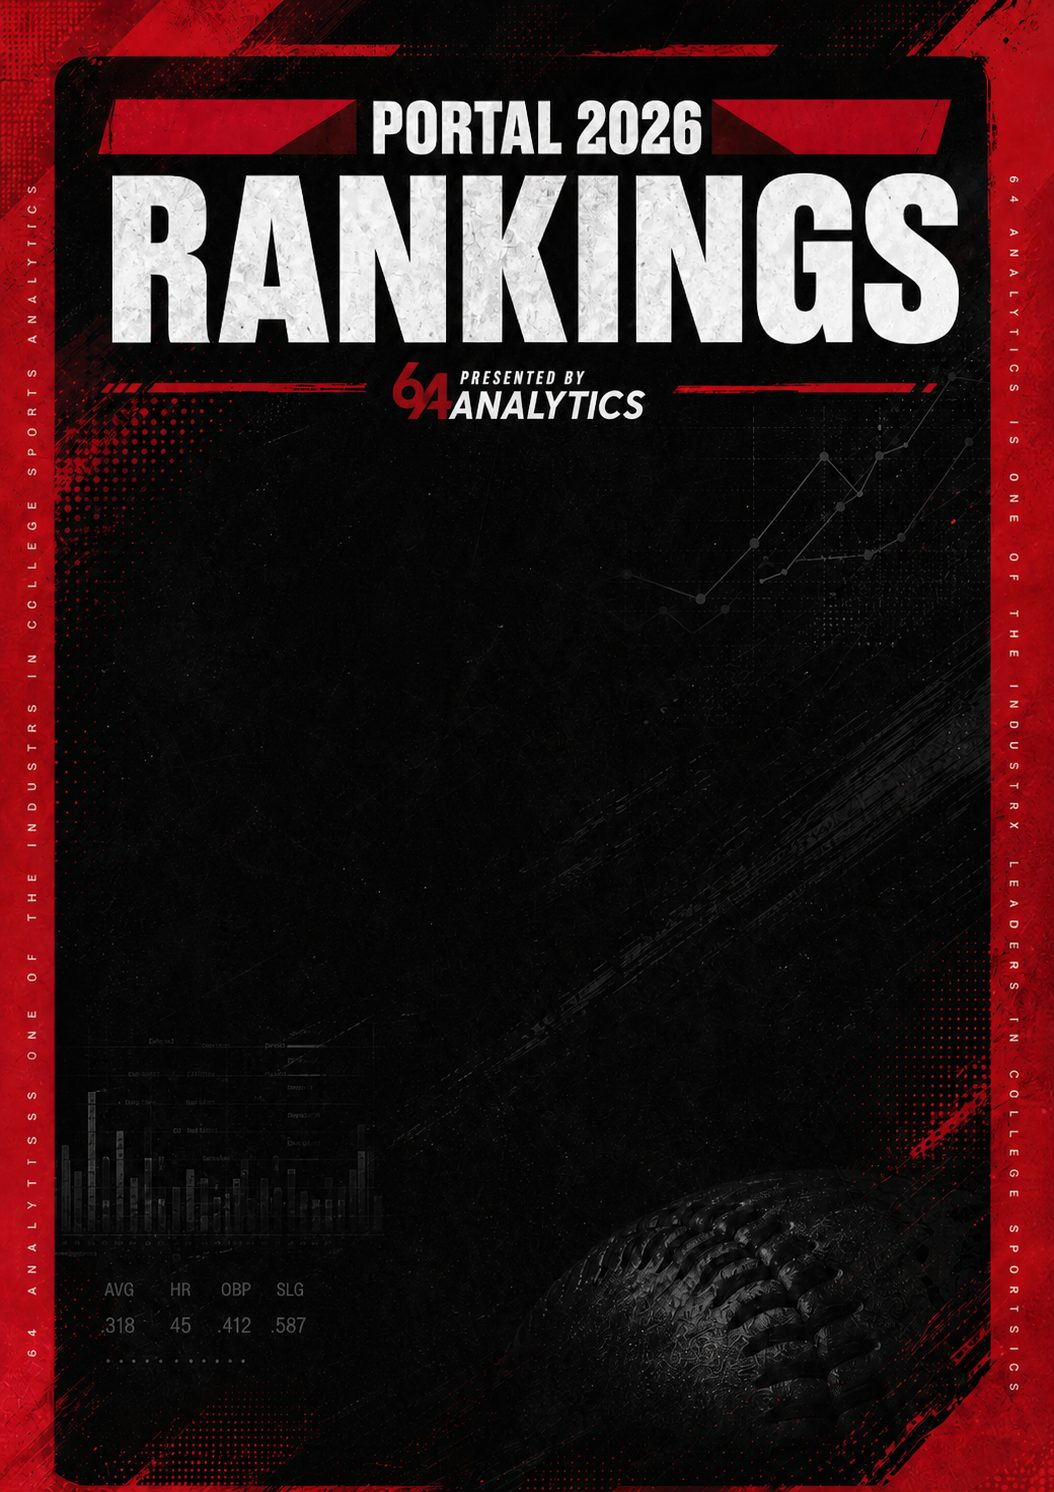
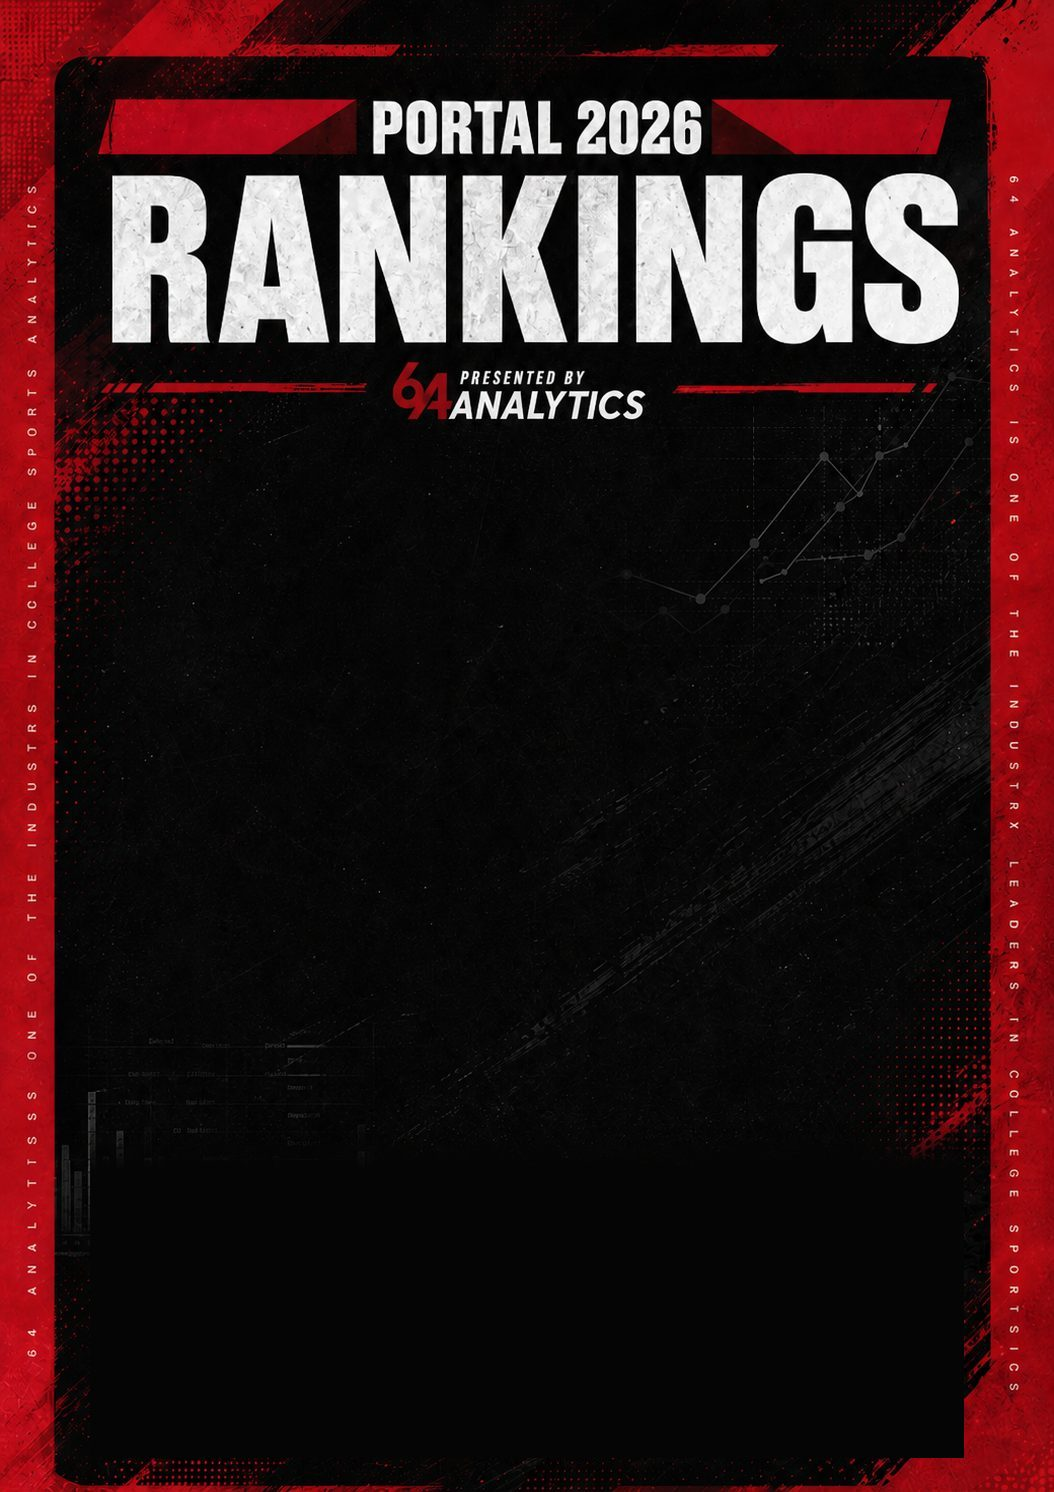
Portal Entrant List: remove poster bottom decorations (football/stat art) + extend table zone to near-full page (bottom 6%) so the data runs to the bottom without clipping

diff --git a/pages/19_Portal_Entrant_List.py b/pages/19_Portal_Entrant_List.py
@@ -204,7 +204,7 @@ DESIGN_CSS = """
 body{font-family:var(--sans);background:#0b0c0f;-webkit-font-smoothing:antialiased;}
 .poster{position:relative;width:1054px;height:1492px;margin:0 auto;
 background-image:url('__POSTER__');background-size:100% 100%;background-repeat:no-repeat;font-family:var(--sans);}
-.content{position:absolute;top:30%;left:9%;right:9%;bottom:15%;display:flex;flex-direction:column;overflow:hidden;}
+.content{position:absolute;top:30%;left:9%;right:9%;bottom:6%;display:flex;flex-direction:column;overflow:hidden;}
 .resultline{font-size:11px;font-weight:700;letter-spacing:1.6px;text-transform:uppercase;color:var(--muted);margin:0 2px 10px;}
 table.portal{width:100%;border-collapse:collapse;font-size:var(--fs);color:var(--text);text-shadow:0 1px 2px rgba(0,0,0,.65);line-height:1.2;}
 table.portal thead th{font-size:.6em;text-transform:uppercase;letter-spacing:1.1px;font-weight:800;color:#fff;
@@ -446,7 +446,7 @@ result_line = (f'TOP {len(view)} OF {counts["total"]:,} · {_sortlbl}'
 # Auto-fit: size rows so the chosen count fits the middle zone WITHOUT clipping.
 # Row height ≈ 2·pady + fs·line-height; line-height is pinned to 1.2 in CSS, so
 # solving fs from the zone budget is accurate (no more bottom-row cutoff).
-ZONE_H = 803.0        # middle-zone height (px) on the 1054x1492 canvas
+ZONE_H = 935.0        # middle-zone height (px) — bottom art removed, runs near full page
 RESULT_H = 28.0       # result line above the table
 HEADER_W = 1.5        # header-row height in units of fs
 ROW_W = 3.1 if layout == 'board' else 2.2  # data-row height in fs units (board = 2 lines)
